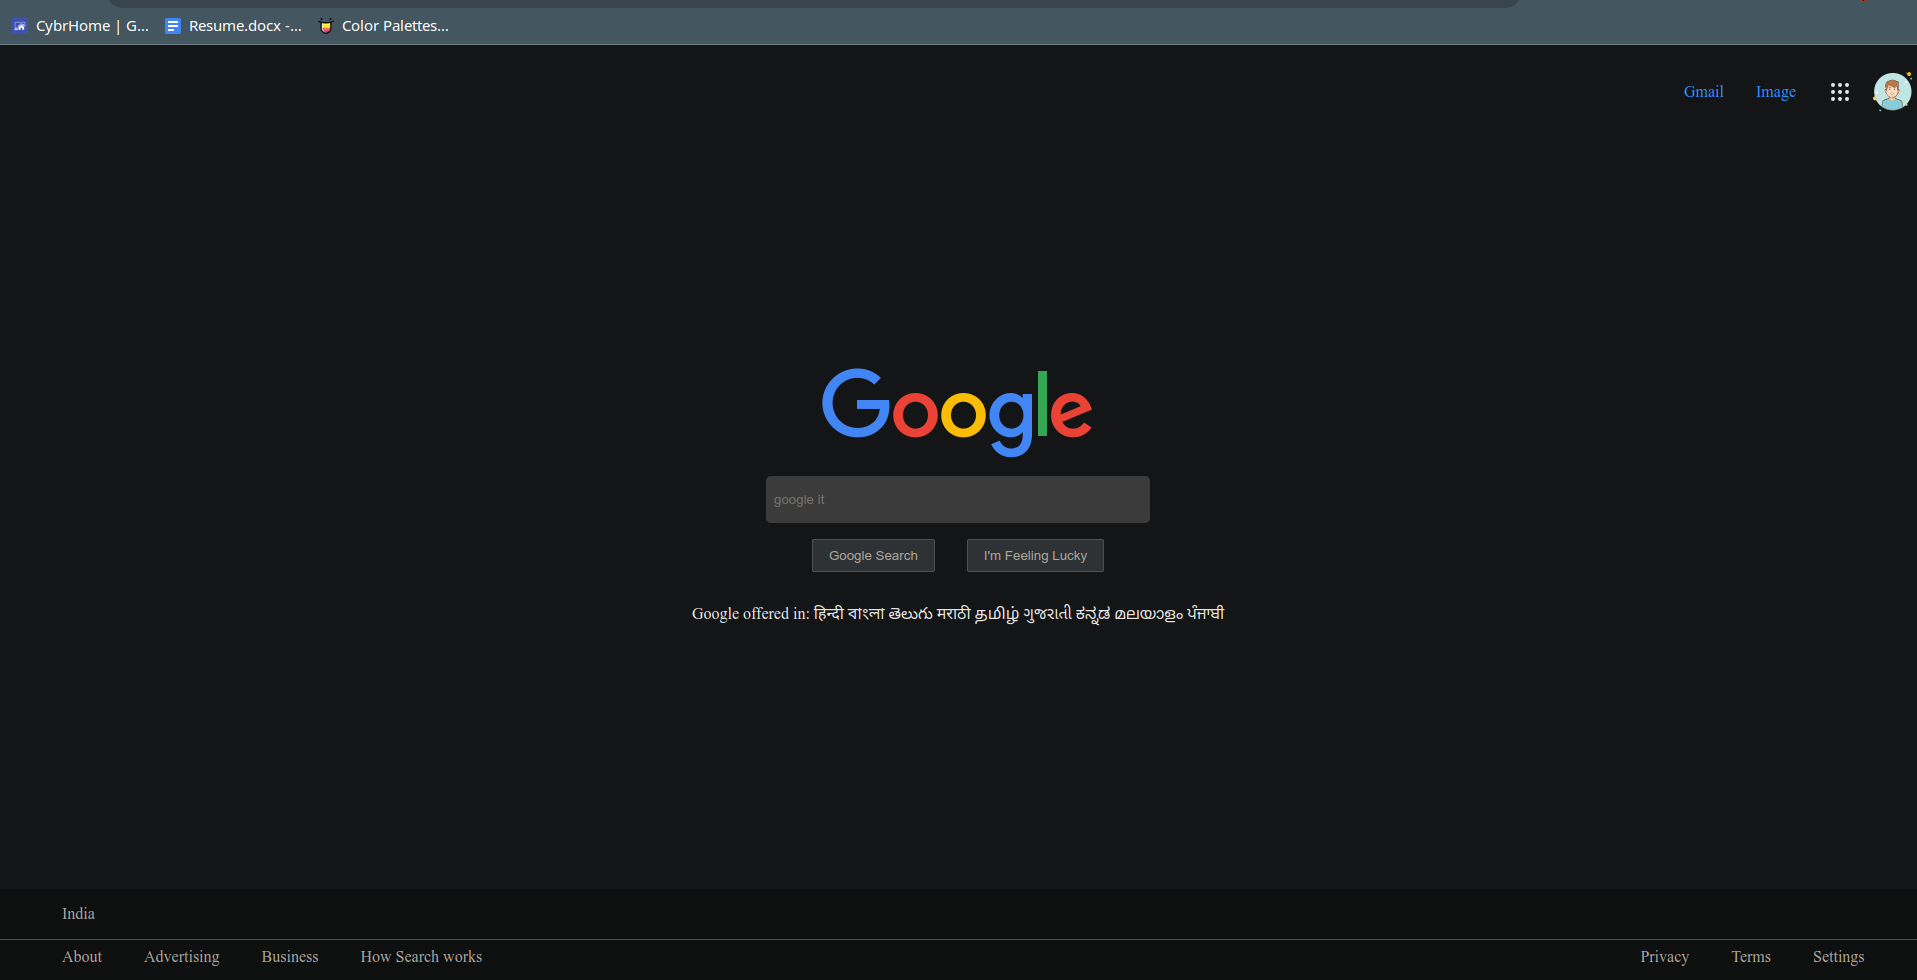
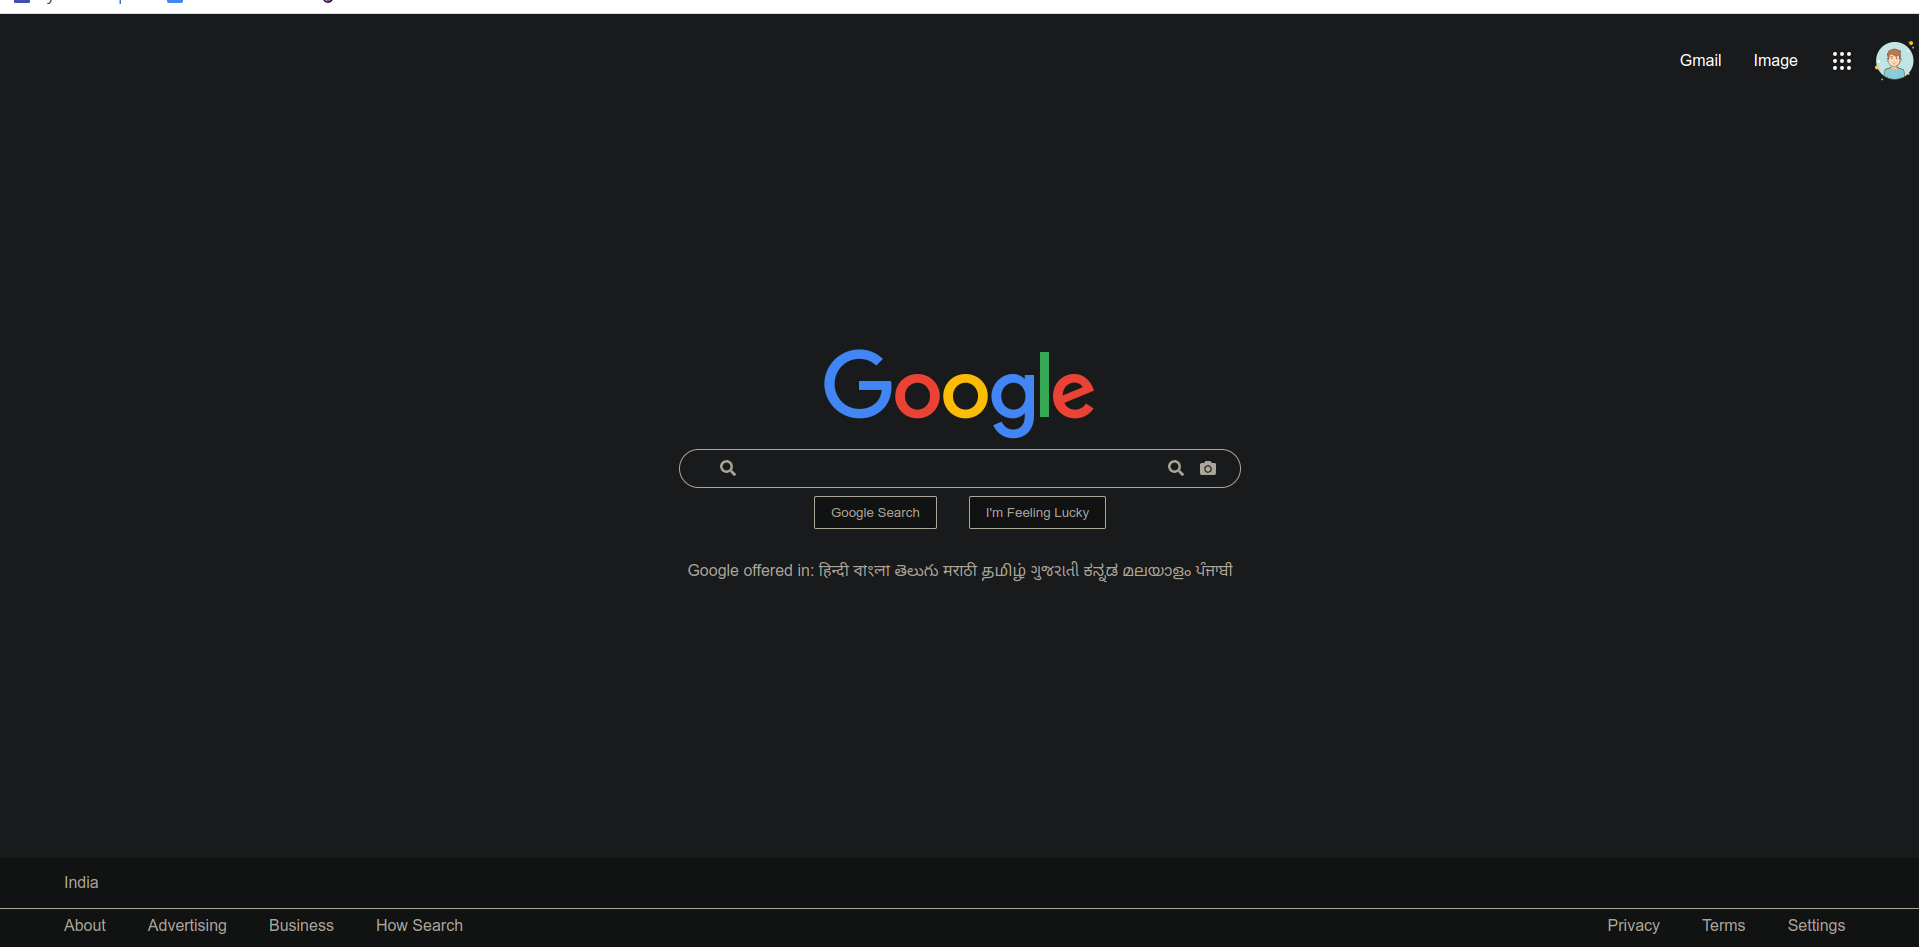
modify search__bar

diff --git a/src/components/Front/front.css b/src/components/Front/front.css
@@ -15,7 +15,7 @@
 .search_bar{
     display: flex;
     align-items: center;
-    border:solid 2px #dbd8d3;
+    border:solid 0.2px #aca59a;
     border-radius: 60px;
     margin:0.5rem 1rem;
     padding:0 1.5rem;
@@ -25,6 +25,7 @@
 .search__bar{
     display: flex;
 border:none;
+background-color: #181a1b;
 outline: transparent;
 margin: 0.2rem 1rem;
 border-radius: 10px;
@@ -35,20 +36,22 @@ width:20vw;
     display: flex;
    align-items: center;
    padding-left: 1rem;
-   
+   color: #aca59a;
 }
 
 .btn{
-    background-color: #dbd8d3;
+    background-color: #111313;
     color:#aca59a;
-    border: solid 1px #aca59a;
+    border: solid 0.2px #aca59a;
     margin: 0 1rem;
     padding: 0.5rem 1rem;
     border-radius:2px;
+    font-weight: 400;
 }
 .front__context{
     display: flex;
     justify-content: center;
     padding: 1rem 2rem;
     width:40vw;
+    color: #aca59a;
 }

diff --git a/src/components/Front/front.tsx b/src/components/Front/front.tsx
@@ -8,7 +8,7 @@ const Front = () => {
         <img src="https://www.google.com/images/branding/googlelogo/1x/googlelogo_color_272x92dp.png" alt="" /> 
         <div className="search_bar">
          <FaSearch className='search_icon'/>   
-        <input className="search__bar" type="search" placeholder='google it' />
+        <input className="search__bar" type="search" />
         <FaSearch className='search_icon'/>
         <FaCamera className='search_icon'/>
         </div>
